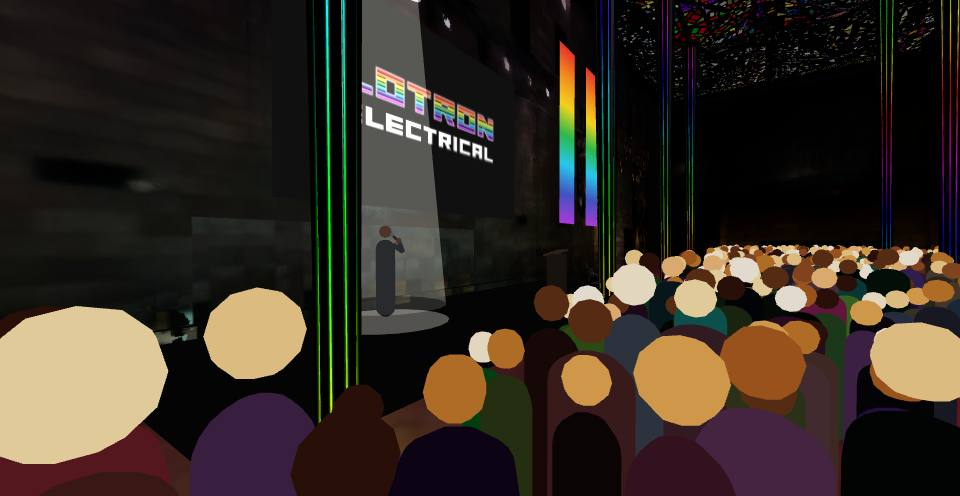
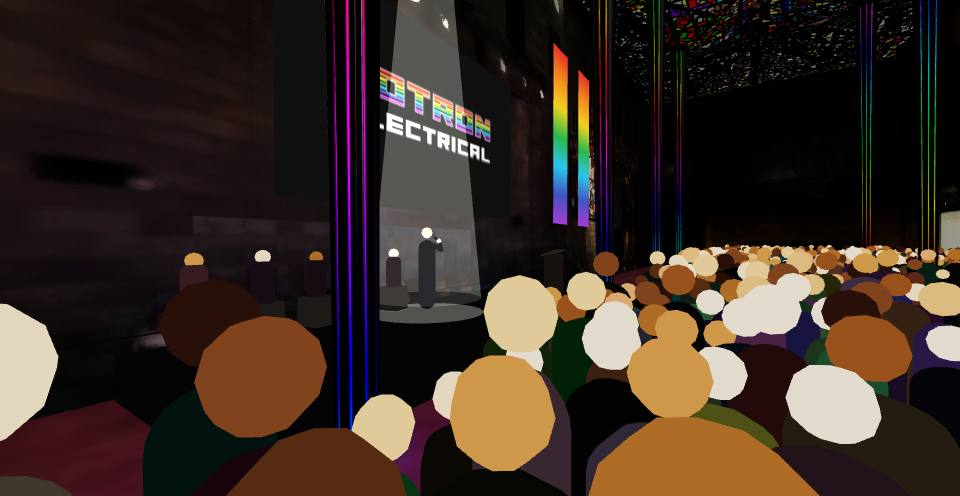
Shot 6 (Lloyd's note, V6): a panel of five seated on the stage along its back, right of the speaker's walk, heads moving a little; the chairs stop 0.4 m short of where the speaker and the guest stand, and the speaker holds a spot at least 1.3 m from the guest, so nobody on the stage meets anyone els
Claude-Session: https://claude.ai/code/session_01TvFyJ7jgaVEcvXM9wy2J9o

diff --git a/index.html b/index.html
@@ -1991,10 +1991,22 @@ function buildEvent(){
     new THREE.MeshBasicMaterial({color:0xfff3d8,transparent:true,opacity:0.35,blending:THREE.AdditiveBlending,depthWrite:false}));
    eventGroup.add(pool);
    speaker={g:sg,beam,pool,uMid,y0};
+   // THE PANEL (Lloyd, shot 6 V6): five people seated on the stage near the speaker, in a row
+   // along the back of the stage on the right (u > uMid), 0.55 m in from the wall. The speaker
+   // paces at d 1.35 and the guest climbs to uMid+0.35, d 1.35: the chairs reach d 0.76 and a
+   // body at 1.35 reaches back to 1.18, so nobody on the stage ever meets anyone else
+   { const nP=5, pp=peopleMeshes(nP,0.55), pc=new THREE.InstancedMesh(new THREE.BoxGeometry(0.42,0.5,0.42),eventMat(0x2e2b28,0x4e4a46),nP), S1={x:1,y:1,z:1}, dy=EVENT.stageH, c=new THREE.Color();
+    speaker.panel={bm:pp.bm,hm:pp.hm,st:[]};
+    for(let i=0;i<nP;i++){ const p=eventPoint(uMid+1.7+i*0.9,0,0.55); _cQ.identity(); _cM.compose(_pV.set(p.x,y0+dy+0.25,p.z),_cQ,S1); pc.setMatrixAt(i,_cM);
+     pp.bm.setColorAt(i,c.setHSL(rnd(0,1),rnd(0.08,0.3),rnd(0.08,0.3),THREE.SRGBColorSpace)); pp.hm.setColorAt(i,c.set(SKIN_TONES[Math.floor(Math.random()*SKIN_TONES.length)]));
+     speaker.panel.st.push({i,x:p.x,z:p.z,dy,ph:Math.random()*6.28}); }
+    pp.bm.instanceColor.needsUpdate=true; pp.hm.instanceColor.needsUpdate=true; for(const m of [pc,pp.bm,pp.hm]){ m.frustumCulled=false; eventGroup.add(m); } }
   }
   eventAnim=(dt,t)=>{ updateCrowd(dt,t);
    if(!speaker)return;
    const y0s=speaker.y0, sH=EVENT.stageH;
+   // the panel sits and listens, heads moving a little
+   if(speaker.panel){ for(const q of speaker.panel.st)poseBH(speaker.panel.bm,speaker.panel.hm,q.i,q.x,q.z,y0s+q.dy+0.72,y0s+q.dy+1.18+0.02*Math.sin(t*1.1+q.ph),1,1); speaker.panel.bm.instanceMatrix.needsUpdate=true; speaker.panel.hm.instanceMatrix.needsUpdate=true; }
    // THE GUEST SPOT (Lloyd): every so often the speaker pulls someone up from the crowd; the
    // guest crosses the floor, climbs the stage, takes the mic and the spotlight for a few
    // moments, then climbs down and melts back into the crowd
@@ -2010,7 +2022,8 @@ function buildEvent(){
      let gu=G.fu, gd=G.fd, lift=0;
      const stageU=speaker.uMid+0.35, stageD=1.35, stepD=EVENT.stageD+0.45;
      if(G.phase==='up'){ const q=Math.min(1,el/3.5); gu=G.fu+(stageU-G.fu)*q; gd=G.fd+(stepD-G.fd)*q;
-      if(el>3.5){ G.phase='climb'; G.t0=t; G.holdU=speaker.uMid+2.6*Math.sin(t*0.22); } }
+      // (Lloyd, V6) the speaker holds a spot at least 1.3 m from where the guest stands
+      if(el>3.5){ G.phase='climb'; G.t0=t; let hu=speaker.uMid+2.6*Math.sin(t*0.22); if(Math.abs(hu-stageU)<1.3)hu=stageU+(hu>=stageU?1.3:-1.3); G.holdU=hu; } }
      else if(G.phase==='climb'){ const q=Math.min(1,el/1.0); lift=q; gu=stageU; gd=stepD+(stageD-stepD)*q; if(el>1.0){G.phase='speak'; G.t0=t;} }
      else if(G.phase==='speak'){ lift=1; gu=stageU; gd=stageD; if(el>6.5){G.phase='desc'; G.t0=t;} }
      else if(G.phase==='desc'){ const q=Math.min(1,el/1.0); lift=1-q; gu=stageU; gd=stageD+(stepD-stageD)*q; if(el>1.0){G.phase='back'; G.t0=t;} }
